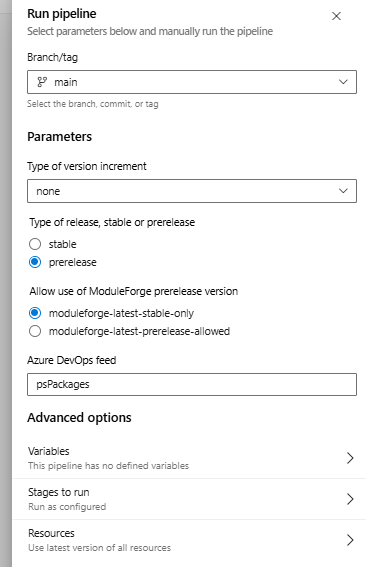
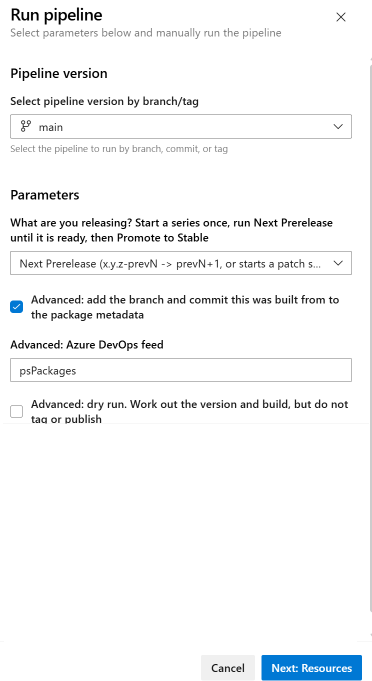
docs: screenshots of the 1.4.1 Build and Release forms, the build summary and the pull request comments

diff --git a/docs/tutorials/azureDevOps/azureDevOps-tutorial-01-getting-started.md b/docs/tutorials/azureDevOps/azureDevOps-tutorial-01-getting-started.md
@@ -271,8 +271,9 @@ Invoke-Pester '.\source\functions\Get-HelloWorld.Tests.ps1'
    - The feed name should match what you set in the Prerequisites
         - If you changed the feedname, recommend you also update this form to reflect that change by editing the _buildAndRelease.yml_ file
    - ![Azure DevOps Run Pipeline form for Build and Release](./img/tut_runPipeline.png)
-4. Wait for our pipeline to finish.
-5. Browse to _Artifacts_ and your Package Feed, where you can 
+4. Wait for our pipeline to finish. The run's **Extensions** tab shows a build summary: the version, what the module exports, and SHA256 checksums of the built files
+   - ![Azure DevOps Extensions tab showing the build summary with version, exports and SHA256 checksums](./img/tut_buildSummary.png)
+5. Browse to _Artifacts_ and your Package Feed, where you can see your new module
 
 >If you want to `manually` download and install your new module, you can download the nupkg from the package feed, rename the extension to `.zip` and uncompress to find your module.
 

diff --git a/docs/tutorials/github/github-tutorial-01-getting-started.md b/docs/tutorials/github/github-tutorial-01-getting-started.md
@@ -214,7 +214,8 @@ Invoke-Pester '.\source\functions\Get-HelloWorld.Tests.ps1'
    - Leave **Release** at **Next Prerelease**. With no versions yet, this builds `1.0.1-prev001`
    - Leave the **Advanced** options at their defaults
    - ![GitHub Actions Run Workflow form for Build and Release](./img/workflowMenu.png)
-5. Wait for our workload to finish.
+5. Wait for our workflow to finish. The run's summary page starts with the release plan, then a build summary: the version, what the module exports, and SHA256 checksums of the built files
+   - ![GitHub Actions run summary showing the release plan and build summary](./img/buildSummary.png)
 6. Navigate back to the `code` tab after the workflow completes. You should now see:
    - A new Release with a version tag and a `latest` badge
    - Packages set at 1

diff --git a/docs/build-and-release.md b/docs/build-and-release.md
@@ -129,6 +129,10 @@ It's a safe way to check what a choice will give you before a real run.
 
 Every run, dry or not, writes a release plan at the top of its summary page: the latest version, the release you chose, and the version it will build. On GitHub the run is named after the release you chose, and on Azure DevOps it's named after the version. Both are marked when it's a dry run.
 
+A build summary follows it, with the version, what the module exports, and SHA256 checksums of the built files. On Azure DevOps it's on the run's **Extensions** tab.
+
+![GitHub Actions run summary showing the release plan and build summary](./tutorials/github/img/buildSummary.png)
+
 ---
 
 ## What Happens After a Stable Release
